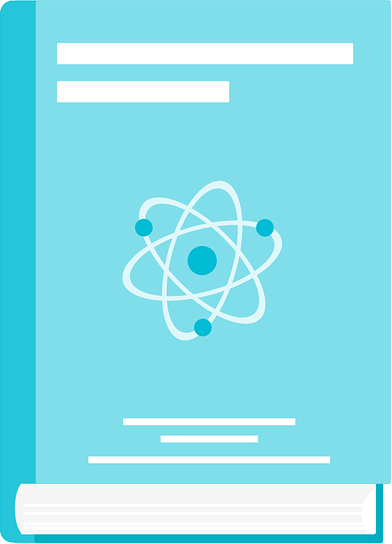
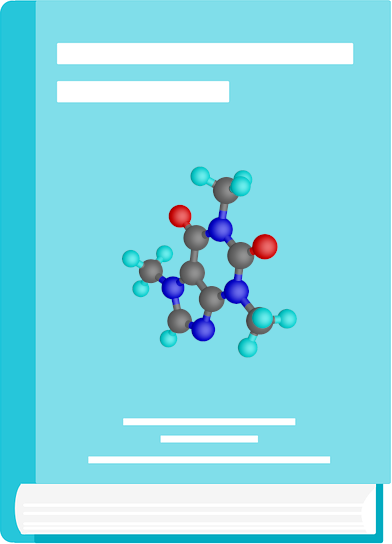
add images for class and discipline

Changed region(s): [[0.3061, 0.2812, 0.7653, 0.6562]]

diff --git a/Cpp/GradeManagementSystem.cpp b/Cpp/GradeManagementSystem.cpp
@@ -16,7 +16,7 @@ using namespace WarGrey::IMS;
 namespace {
     static const size_t DESK_COUNT = 7;
     static const float platform_width = 512.0F;
-    static const float platform_height = 64.0F;
+    static const float platform_height = 80.0F;
     static const double gliding_duration = 0.5;
 
     class GradeManagementPlane : public Plane, public IMenuEventListener, public IModelListener {
@@ -127,7 +127,7 @@ namespace {
                 case MenuTask::CreateClass: this->start_input_text("请按格式输入待创建班级信息(%s): ", ClassEntity::prompt()); break;
                 case MenuTask::DeleteClass: this->start_input_text("请输入待删除班级代号: "); break;
                 case MenuTask::CreateDiscipline: this->start_input_text("请按格式输入待创建课程信息(%s): ", DisciplineEntity::prompt()); break;
-                case MenuTask::UpdateDiscipline: this->start_input_text("请按格式输入待修改课程信息(%s)【代号不可能修改，“_”提示保留字段】: ", DisciplineEntity::prompt()); break;
+                case MenuTask::UpdateDiscipline: this->start_input_text("请按格式输入待修改课程信息(%s): ", DisciplineEntity::prompt()); break;
                 case MenuTask::DeleteDiscipline: this->start_input_text("请输入待删除课程代号: "); break;
                 case MenuTask::ImportData: this->model->import_from_file(this->gmsin); this->reflow_model_sprites(gliding_duration); break;
                 case MenuTask::ExportData: this->model->export_to_file(this->gmsout); this->log_message(GREEN, "done."); break;
@@ -139,36 +139,36 @@ namespace {
         }
 
     public:
-        void on_class_created(uint64_t id, shared_class_t entity, bool in_batching) override {
-            this->classes[id] = this->insert(new ClassSprite(id));
-            this->classes[id]->resize_by_height(platform_height * 0.618F);
+        void on_class_created(uint64_t pk, shared_class_t entity, bool in_batching) override {
+            this->classes[pk] = this->insert(new ClassSprite(pk));
+            this->classes[pk]->resize_by_height(platform_height);
 
             if (!in_batching) {
                 this->reflow_class_logos(gliding_duration);
             }
         }
 
-        void on_class_deleted(uint64_t id, shared_class_t entity, bool in_batching) override {
-            this->remove(this->classes[id]);
-            this->classes.erase(id);
+        void on_class_deleted(uint64_t pk, shared_class_t entity, bool in_batching) override {
+            this->remove(this->classes[pk]);
+            this->classes.erase(pk);
 
             if (!in_batching) {
                 this->reflow_class_logos(gliding_duration);
             }
         }
 
-        void on_discipline_created(uint64_t id, shared_discipline_t entity, bool in_batching) override {
-            this->disciplines[id] = this->insert(new DisciplineSprite(id, entity->discipline_type()));
-            this->disciplines[id]->resize_by_height(platform_height * 0.85F);
+        void on_discipline_created(uint64_t pk, shared_discipline_t entity, bool in_batching) override {
+            this->disciplines[pk] = this->insert(new DisciplineSprite(pk, entity->discipline_type()));
+            this->disciplines[pk]->resize_by_height(platform_height * 0.90F);
 
             if (!in_batching) {
                 this->reflow_discipline_logos(gliding_duration);
             }
         }
 
-        void on_discipline_deleted(uint64_t id, shared_discipline_t entity, bool in_batching) override {
-            this->remove(this->disciplines[id]);
-            this->disciplines.erase(id);
+        void on_discipline_deleted(uint64_t pk, shared_discipline_t entity, bool in_batching) override {
+            this->remove(this->disciplines[pk]);
+            this->disciplines.erase(pk);
 
             if (!in_batching) {
                 this->reflow_discipline_logos(gliding_duration);
@@ -235,15 +235,15 @@ namespace {
 
         void reflow_class_logos(double duration = gliding_duration) {
             if (!this->classes.empty()) {
-                float cls_x, cls_y, grid_width;
+                float cls_x, cls_y, grid_height;
          
-                this->feed_matter_location(this->platform, &cls_x, &cls_y, MatterAnchor::LB);
-                this->classes.begin()->second->feed_extent(0.0F, 0.0F, &grid_width);
-                grid_width += 4.0F;
+                this->feed_matter_location(this->side_border, &cls_x, &cls_y, MatterAnchor::CB);
+                this->classes.begin()->second->feed_extent(0.0F, 0.0F, nullptr, &grid_height);
+                grid_height *= 1.2F;
 
-                for (auto cls : this->classes) {
-                    this->glide_to(duration, cls.second, cls_x, cls_y, MatterAnchor::LB);
-                    cls_x += grid_width;
+                for (auto cls = this->classes.rbegin(); cls != this->classes.rend(); cls ++) {
+                    this->glide_to(duration, cls->second, cls_x, cls_y, MatterAnchor::CB, 0.0F, -1.0F);
+                    cls_y -= grid_height;
                 }
             }
         }
@@ -251,15 +251,15 @@ namespace {
         void reflow_discipline_logos(double duration = gliding_duration) {
             if (!this->disciplines.empty()) {
                 float dis_x, dis_y, grid_width;
+                float gap = 4.0F;
          
-                this->feed_matter_location(this->side_border, &dis_x, &dis_y, MatterAnchor::RB);
+                this->feed_matter_location(this->platform, &dis_x, &dis_y, MatterAnchor::LC);
                 this->disciplines.begin()->second->feed_extent(0.0F, 0.0F, &grid_width);
-                grid_width += 4.0F;
-                dis_x += 2.0F;
-                dis_y -= 2.0F;
+                dis_x += gap;
+                grid_width += gap;
 
                 for (auto dis : this->disciplines) {
-                    this->glide_to(duration, dis.second, dis_x, dis_y, MatterAnchor::LB);
+                    this->glide_to(duration, dis.second, dis_x, dis_y, MatterAnchor::LC);
                     dis_x += grid_width;
                 }
             }

diff --git a/Cpp/digitama/IMS/model.cpp b/Cpp/digitama/IMS/model.cpp
@@ -24,19 +24,19 @@ void WarGrey::IMS::GradeManagementSystemModel::import_from_file(const std::strin
             try {
                 if (ClassEntity::match(line, &offset)) {
                     ClassEntity* cls = new ClassEntity(line, offset);
-                    uint64_t id = cls->uuid();
+                    uint64_t pk = cls->primary_key();
 
-                    if (cls->okay() && (this->classes.find(id) == this->classes.end())) {
-                        this->classes[id] = std::shared_ptr<ClassEntity>(cls);
-                        this->listener->on_class_created(id, this->classes[id], true);
+                    if (cls->okay() && (this->classes.find(pk) == this->classes.end())) {
+                        this->classes[pk] = std::shared_ptr<ClassEntity>(cls);
+                        this->listener->on_class_created(pk, this->classes[pk], true);
                     }
                 } else if (DisciplineEntity::match(line, &offset)) {
                     DisciplineEntity* dis = new DisciplineEntity(line, offset);
-                    uint64_t id = dis->uuid();
+                    uint64_t pk = dis->primary_key();
 
-                    if (dis->okay() && (this->disciplines.find(id) == this->disciplines.end())) {
-                        this->disciplines[id] = std::shared_ptr<DisciplineEntity>(dis);
-                        this->listener->on_discipline_created(id, this->disciplines[id], true);
+                    if (dis->okay() && (this->disciplines.find(pk) == this->disciplines.end())) {
+                        this->disciplines[pk] = std::shared_ptr<DisciplineEntity>(dis);
+                        this->listener->on_discipline_created(pk, this->disciplines[pk], true);
                     }
                 }
             } catch (const std::exception& e) {}
@@ -82,13 +82,13 @@ void WarGrey::IMS::GradeManagementSystemModel::create_class_from_user_input(cons
     ClassEntity* cls = new ClassEntity(text, 0);
 
     if (cls->okay()) {
-        uint64_t id = cls->uuid();
+        uint64_t pk = cls->primary_key();
 
-        if (this->classes.find(id) == this->classes.end()) {
-            this->classes[id] = std::shared_ptr<ClassEntity>(cls);
-            this->listener->on_class_created(id, this->classes[id], false);
+        if (this->classes.find(pk) == this->classes.end()) {
+            this->classes[pk] = std::shared_ptr<ClassEntity>(cls);
+            this->listener->on_class_created(pk, this->classes[pk], false);
         } else {
-            throw exn_gms("班级(%llu)已存在", cls->uuid());
+            throw exn_gms("班级(%llu)已存在", cls->primary_key());
         }
     } else {
         throw exn_gms("无效输入");
@@ -97,15 +97,15 @@ void WarGrey::IMS::GradeManagementSystemModel::create_class_from_user_input(cons
 
 void WarGrey::IMS::GradeManagementSystemModel::delete_class_as_user_required(const char* text, size_t size) {
     size_t pos = 0;
-    uint64_t cls_id = scan_natural(text, &pos, size);
+    uint64_t cls_pk = scan_natural(text, &pos, size);
 
-    if (this->classes.find(cls_id) != this->classes.end()) {
-        shared_class_t entity = this->classes[cls_id];
+    if (this->classes.find(cls_pk) != this->classes.end()) {
+        shared_class_t entity = this->classes[cls_pk];
 
-        this->classes.erase(cls_id);
-        this->listener->on_class_deleted(cls_id, entity, false);
+        this->classes.erase(cls_pk);
+        this->listener->on_class_deleted(cls_pk, entity, false);
     } else {
-        throw exn_gms("查无此班(%llu)", cls_id);
+        throw exn_gms("查无此班(%llu)", cls_pk);
     }
 }
 
@@ -113,13 +113,13 @@ void WarGrey::IMS::GradeManagementSystemModel::create_discipline_from_user_input
     DisciplineEntity* dis = new DisciplineEntity(text, 0);
 
     if (dis->okay()) {
-        uint64_t id = dis->uuid();
+        uint64_t pk = dis->primary_key();
 
-        if (this->disciplines.find(id) == this->disciplines.end()) {
-            this->disciplines[id] = std::shared_ptr<DisciplineEntity>(dis);
-            this->listener->on_discipline_created(id, this->disciplines[id], false);
+        if (this->disciplines.find(pk) == this->disciplines.end()) {
+            this->disciplines[pk] = std::shared_ptr<DisciplineEntity>(dis);
+            this->listener->on_discipline_created(pk, this->disciplines[pk], false);
         } else {
-            throw exn_gms("课程(%llu)已存在", dis->uuid());
+            throw exn_gms("课程(%llu)已存在", dis->primary_key());
         }
     } else {
         throw exn_gms("无效输入");
@@ -128,14 +128,14 @@ void WarGrey::IMS::GradeManagementSystemModel::create_discipline_from_user_input
 
 void WarGrey::IMS::GradeManagementSystemModel::delete_discipline_as_user_required(const char* text, size_t size) {
     size_t pos = 0;
-    uint64_t dis_id = scan_natural(text, &pos, size);
+    uint64_t dis_pk = scan_natural(text, &pos, size);
 
-    if (this->disciplines.find(dis_id) != this->disciplines.end()) {
-        shared_discipline_t entity = this->disciplines[dis_id];
+    if (this->disciplines.find(dis_pk) != this->disciplines.end()) {
+        shared_discipline_t entity = this->disciplines[dis_pk];
 
-        this->disciplines.erase(dis_id);
-        this->listener->on_discipline_deleted(dis_id, entity, false);
+        this->disciplines.erase(dis_pk);
+        this->listener->on_discipline_deleted(dis_pk, entity, false);
     } else {
-        throw exn_gms("查无此课(%llu)", dis_id);
+        throw exn_gms("查无此课(%llu)", dis_pk);
     }
 }

diff --git a/Cpp/digitama/IMS/entity/discipline.cpp b/Cpp/digitama/IMS/entity/discipline.cpp
@@ -19,6 +19,8 @@ const char* WarGrey::IMS::DisciplineEntity::prompt() {
 const char* WarGrey::IMS::DisciplineEntity::type_to_name(DisciplineType type) {
     switch (type) {
     case DisciplineType::Mathematics: return "Mathematics";
+    case DisciplineType::Programming: return "Programming";
+    case DisciplineType::Physics: return "Physics";
     case DisciplineType::Chemistry: return "Chemistry";
     case DisciplineType::Biology: return "Biology";
     default: return "Blank";
@@ -28,6 +30,10 @@ const char* WarGrey::IMS::DisciplineEntity::type_to_name(DisciplineType type) {
 DisciplineType WarGrey::IMS::DisciplineEntity::name_to_type(const char* name) {
     if ((strcasecmp(name, "mathematics") == 0) || (strcasecmp(name, "math") == 0)) {
         return DisciplineType::Mathematics;
+    } else if ((strcasecmp(name, "programming") == 0) || (strcasecmp(name, "coding") == 0)) {
+        return DisciplineType::Programming;
+    } else if (strcasecmp(name, "physics") == 0) {
+        return DisciplineType::Physics;
     } else if (strcasecmp(name, "chemistry") == 0) {
         return DisciplineType::Chemistry;
     } else if ((strcasecmp(name, "biology") == 0) || (strcasecmp(name, "bio") == 0)) {

diff --git a/Cpp/digitama/IMS/entity/discipline.hpp b/Cpp/digitama/IMS/entity/discipline.hpp
@@ -3,7 +3,7 @@
 #include "entity.hpp"
 
 namespace WarGrey::IMS {
-    enum class DisciplineType { Mathematics, Chemistry, Biology, Blank };
+    enum class DisciplineType { Mathematics, Programming, Physics, Chemistry, Biology, Blank };
 
     class DisciplineEntity : public WarGrey::IMS::GMSEntity {
     public:
@@ -25,8 +25,8 @@ namespace WarGrey::IMS {
         DisciplineType discipline_type() { return this->type; }
 
     public:
-        bool okay() override { return (this->id > 0U) && (this->type != DisciplineType::Blank); }
-        uint64_t uuid() override { return this->id; }
+        bool okay() override { return this->id > 0U; }
+        uint64_t primary_key() override { return this->id; }
         std::string to_string() override;
 
     private:

diff --git a/Cpp/digitama/IMS/entity/class.hpp b/Cpp/digitama/IMS/entity/class.hpp
@@ -16,7 +16,7 @@ namespace WarGrey::IMS {
 
     public:
         bool okay() override { return this->id > 0U; }
-        uint64_t uuid() override { return this->id; }
+        uint64_t primary_key() override { return this->id; }
         std::string to_string() override;
 
     private:

diff --git a/Cpp/digitama/IMS/entity/entity.hpp b/Cpp/digitama/IMS/entity/entity.hpp
@@ -18,7 +18,7 @@ namespace WarGrey::IMS {
 
     public:
         virtual bool okay() = 0;
-        virtual uint64_t uuid() = 0;
+        virtual uint64_t primary_key() = 0;
         virtual std::string to_string() = 0;
     };
 
